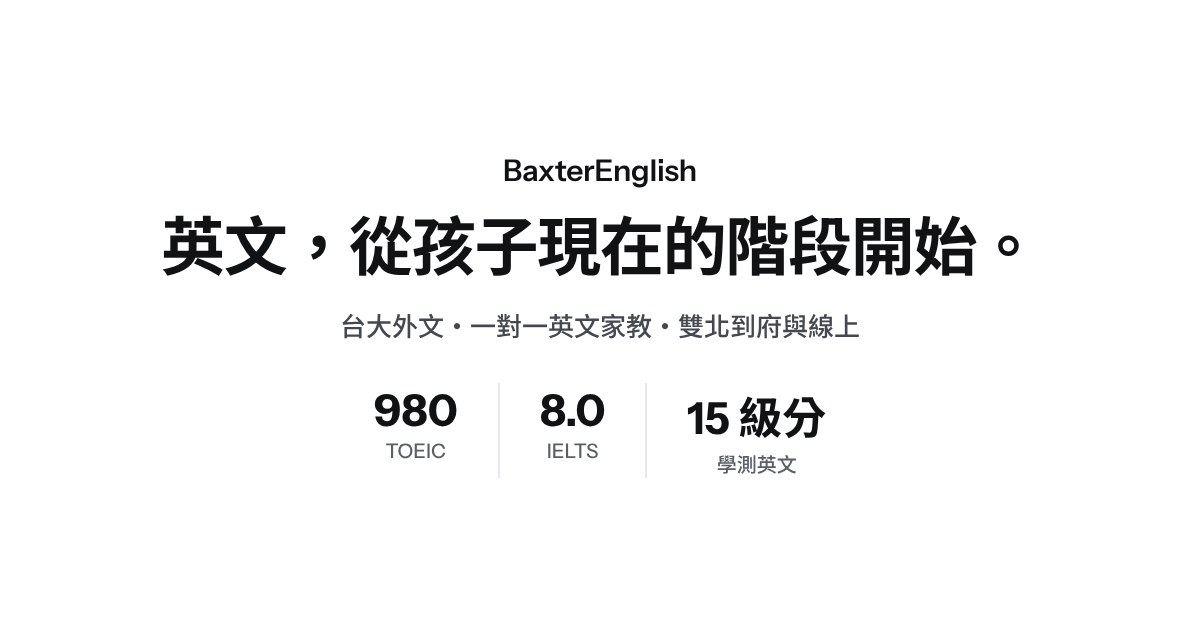
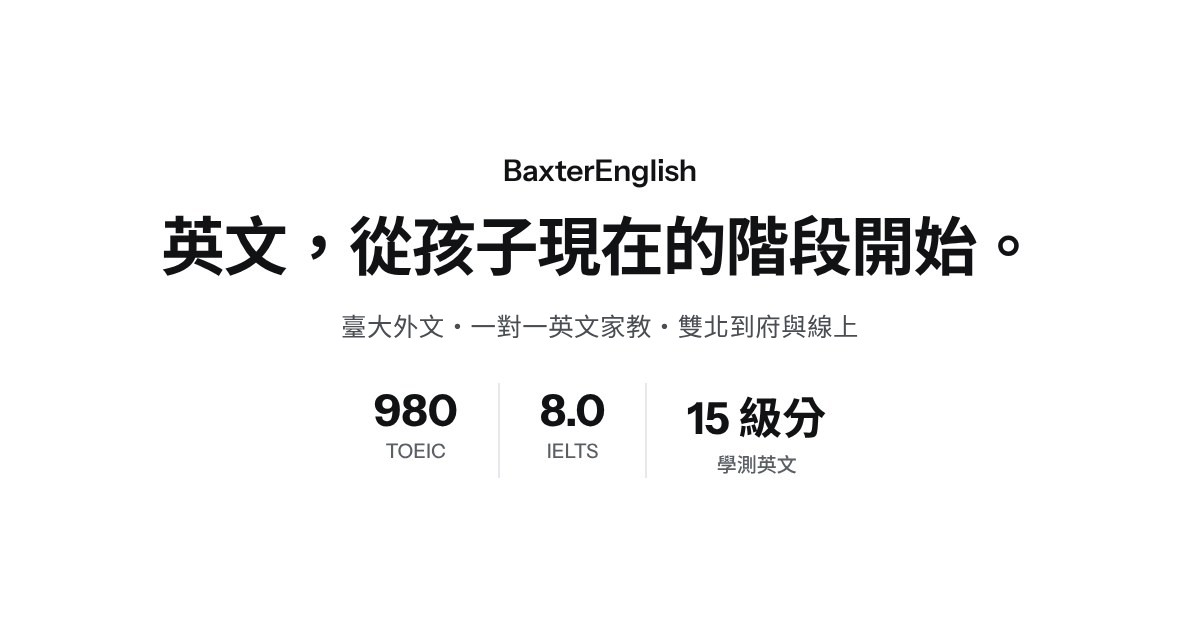
Add files via upload

Changed region(s): [[0.4625, 0.4825, 0.7092, 0.5429], [0.2775, 0.4825, 0.37, 0.5429], [0.4008, 0.4825, 0.4317, 0.5429]]

diff --git a/portfolio/index.html b/portfolio/index.html
@@ -26,7 +26,7 @@
 <link rel="preconnect" href="https://fonts.googleapis.com">
 <link rel="preconnect" href="https://fonts.gstatic.com" crossorigin>
 <link href="https://fonts.googleapis.com/css2?family=Instrument+Sans:wght@400;500;600;700&amp;family=Noto+Sans+TC:wght@400;500;600;700&amp;display=swap" rel="stylesheet">
-<link rel="stylesheet" href="/assets/site.css?v=20261009g">
+<link rel="stylesheet" href="/assets/site.css?v=20261009h">
 </head>
 <body>
 <a class="skip" href="#main">跳到主要內容</a>
@@ -67,7 +67,7 @@
 <section class="hero">
   <div class="wrap">
     <h1 class="display" style="font-size:clamp(40px,6vw,72px)">英文教材設計與命題作品集</h1>
-    <p class="lead">紀承緯（Baxter Chi），臺大外國語文學系。整理我自編的題本、講義、課程規劃，以及實際傳給家長的訊息；皆為節錄，姓名等可辨識資訊已遮去。</p>
+    <p class="lead">紀承緯（Baxter Chi），臺大外文。整理我自編的題本、講義、課程規劃，以及實際傳給家長的訊息；皆為節錄，姓名等可辨識資訊已遮去。</p>
   </div>
   <div class="wrap" style="margin-top:40px">
     <div class="stats">
@@ -98,7 +98,7 @@
 <section class="sec gray" id="comm" aria-labelledby="c-h">
   <div class="wrap">
     <div class="sec-head center"><h2 id="c-h" class="h2">家長與學生溝通</h2><p>實際傳出的 LINE 訊息，只留我送出的部分；姓名以符號代替，其他可辨識資訊已移除。</p></div>
-    <div class="shots" style="--c:3"><figure class="shot pf"><a class="zoom" href="/portfolio/img/msg-plan-calendar.webp"><img src="/portfolio/img/msg-plan-calendar.webp" width="820" height="872" alt="課程規劃：開學先對行事曆，再對學校進度（LINE 訊息截圖，已遮去個人資料）" loading="lazy" decoding="async"></a><figcaption><small>課程規劃</small><b>開學先對行事曆，再對學校進度</b><span>開學初就把學校行事曆上的期中、期末與直升考日期記下來，再向家長要學校每週的 lesson plan，收到後依單元進度逐週修改規劃。</span></figcaption></figure><figure class="shot pf"><a class="zoom" href="/portfolio/img/msg-error-diagnosis.webp"><img src="/portfolio/img/msg-error-diagnosis.webp" width="735" height="914" alt="錯題診斷：訂正完，把錯誤分成四種原因（LINE 訊息截圖，已遮去個人資料）" loading="lazy" decoding="async"></a><figcaption><small>錯題診斷</small><b>訂正完，把錯誤分成四種原因</b><span>題目要的和學生寫的不同、忘了前面單元的可數與不可數、沒看到題目要求否定句、單複數混用；最後說明檢討時怎麼處理：記得原因的當場問清楚、重新解釋再舉例，不記得的就再講一次正確思路。</span></figcaption></figure><figure class="shot pf"><a class="zoom" href="/portfolio/img/msg-followup-answer.webp"><img src="/portfolio/img/msg-followup-answer.webp" width="730" height="605" alt="事後補答：上課沒解決的題目，當晚補上（LINE 訊息截圖，已遮去個人資料）" loading="lazy" decoding="async"></a><figcaption><small>事後補答</small><b>上課沒解決的題目，當晚補上</b><span>課堂上卡住的一題，想清楚後當天就補上解法，請家長轉知學生。</span></figcaption></figure><figure class="shot pf"><a class="zoom" href="/portfolio/img/msg-ielts-goals.webp"><img src="/portfolio/img/msg-ielts-goals.webp" width="730" height="536" alt="目標拆解：雅思：先拆出各科目標分數（LINE 訊息截圖，已遮去個人資料）" loading="lazy" decoding="async"></a><figcaption><small>目標拆解</small><b>雅思：先拆出各科目標分數</b><span>先說明紙筆考轉機考的影響，再把總分目標拆成聽讀、說寫兩組，寫出練習重點。</span></figcaption></figure><figure class="shot pf"><a class="zoom" href="/portfolio/img/msg-exam-checklist.webp"><img src="/portfolio/img/msg-exam-checklist.webp" width="720" height="359" alt="考前提醒：段考前一週：只列三件事（LINE 訊息截圖，已遮去個人資料）" loading="lazy" decoding="async"></a><figcaption><small>考前提醒</small><b>段考前一週：只列三件事</b><span>直接傳給學生的考前清單：錯題重看、模擬卷做完、上課沒答出來的單字複習。</span></figcaption></figure><figure class="shot pf"><a class="zoom" href="/portfolio/img/msg-errand-flyers.webp"><img src="/portfolio/img/msg-errand-flyers.webp" width="820" height="384" alt="代辦：劍橋 Flyers 報名場次與截止日（LINE 訊息截圖，已遮去個人資料）" loading="lazy" decoding="async"></a><figcaption><small>代辦・檢定報名</small><b>劍橋 Flyers：查好場次與截止日，再給建議</b><span>把台北還能報名的場次、截止日逐一對照各考試中心官網，整理成一份報名資訊（考場、報名方式、要準備的資料），再建議落在學期中的場次。下圖是附件的第一頁。</span></figcaption></figure><figure class="shot pf"><a class="zoom" href="/portfolio/img/msg-course-plan.webp"><img src="/portfolio/img/msg-course-plan.webp" width="730" height="880" alt="課程規劃信：升高一暑假：高中英文怎麼排（LINE 訊息截圖，已遮去個人資料）" loading="lazy" decoding="async"></a><figcaption><small>課程規劃信</small><b>升高一暑假：高中英文怎麼排</b><span>把文法、單字、段考、作文、多益拆成有時間點的計畫，讓家長一次看懂接下來要做什麼。</span></figcaption></figure><figure class="shot pf"><a class="zoom" href="/portfolio/img/msg-lesson-feedback.webp"><img src="/portfolio/img/msg-lesson-feedback.webp" width="735" height="427" alt="課後回饋：回報進度，也回報上課狀況（LINE 訊息截圖，已遮去個人資料）" loading="lazy" decoding="async"></a><figcaption><small>課後回饋</small><b>回報進度，也回報上課狀況</b><span>家長問起學習狀況時，除了進度，也說明觀察到的問題和接下來的調整方式。</span></figcaption></figure><figure class="shot pf"><a class="zoom" href="/portfolio/img/msg-writing-course.webp"><img src="/portfolio/img/msg-writing-course.webp" width="880" height="336" alt="課程設計：英文作文從概念、段落到主題練習（LINE 訊息截圖，已遮去個人資料）" loading="lazy" decoding="async"></a><figcaption><small>課程設計</small><b>英文作文：從概念、段落到主題練習</b><span>向家長說明作文課怎麼排：先用約 1.5 小時講完概念、架構與例子，再做段落練習，最後到不同主題的討論與練習；上手大約 7–10 小時。</span></figcaption></figure><figure class="shot pf"><a class="zoom" href="/portfolio/img/doc-overseas-plan.webp"><img src="/portfolio/img/doc-overseas-plan.webp" width="1000" height="1333" alt="升學規劃：國中赴日本或新加坡讀國際學校的家長版指南（第 1 頁）" loading="lazy" decoding="async"></a><figcaption><small>升學規劃</small><b>國中出國讀書：日本或新加坡</b><span>家長在考慮孩子國中要去日本還是新加坡讀國際學校，我把各校官網資料整理成一份 10 頁的家長版指南：先依家長是否陪讀分成兩條路，再比較學校、寄宿年齡規定與費用。這是第一頁。</span></figcaption></figure></div>
+    <div class="shots" style="--c:3"><figure class="shot pf"><a class="zoom" href="/portfolio/img/msg-plan-calendar.webp"><img src="/portfolio/img/msg-plan-calendar.webp" width="820" height="872" alt="課程規劃：開學先對行事曆，再對學校進度（LINE 訊息截圖，已遮去個人資料）" loading="lazy" decoding="async"></a><figcaption><small>課程規劃</small><b>開學先對行事曆，再對學校進度</b><span>開學初就把學校行事曆上的期中、期末與直升考日期記下來，再向家長要學校每週的 lesson plan，收到後依單元進度逐週修改規劃。</span></figcaption></figure><figure class="shot pf"><a class="zoom" href="/portfolio/img/msg-error-diagnosis.webp"><img src="/portfolio/img/msg-error-diagnosis.webp" width="735" height="914" alt="錯題診斷：訂正完，把錯誤分成四種原因（LINE 訊息截圖，已遮去個人資料）" loading="lazy" decoding="async"></a><figcaption><small>錯題診斷</small><b>訂正完，把錯誤分成四種原因</b><span>題目要的和學生寫的不同、忘了前面單元的可數與不可數、沒看到題目要求否定句、單複數混用；最後說明檢討時怎麼處理：記得原因的當場問清楚、重新解釋再舉例，不記得的就再講一次正確思路。</span></figcaption></figure><figure class="shot pf"><a class="zoom" href="/portfolio/img/msg-followup-answer.webp"><img src="/portfolio/img/msg-followup-answer.webp" width="730" height="605" alt="事後補答：上課沒解決的題目，當晚補上（LINE 訊息截圖，已遮去個人資料）" loading="lazy" decoding="async"></a><figcaption><small>事後補答</small><b>上課沒解決的題目，當晚補上</b><span>課堂上卡住的一題，想清楚後當天就補上解法，請家長轉知學生。</span></figcaption></figure><figure class="shot pf"><a class="zoom" href="/portfolio/img/msg-ielts-goals.webp"><img src="/portfolio/img/msg-ielts-goals.webp" width="730" height="536" alt="目標拆解：雅思：先拆出各科目標分數（LINE 訊息截圖，已遮去個人資料）" loading="lazy" decoding="async"></a><figcaption><small>目標拆解</small><b>雅思：先拆出各科目標分數</b><span>先說明紙筆考轉機考的影響，再把總分目標拆成聽讀、說寫兩組，寫出練習重點。</span></figcaption></figure><figure class="shot pf"><a class="zoom" href="/portfolio/img/msg-exam-checklist.webp"><img src="/portfolio/img/msg-exam-checklist.webp" width="720" height="359" alt="考前提醒：段考前一週：只列三件事（LINE 訊息截圖，已遮去個人資料）" loading="lazy" decoding="async"></a><figcaption><small>考前提醒</small><b>段考前一週：只列三件事</b><span>直接傳給學生的考前清單：錯題重看、模擬卷做完、上課沒答出來的單字複習。</span></figcaption></figure><figure class="shot pf"><a class="zoom" href="/portfolio/img/msg-errand-flyers.webp"><img src="/portfolio/img/msg-errand-flyers.webp" width="820" height="384" alt="代辦：劍橋 Flyers 報名場次與截止日（LINE 訊息截圖，已遮去個人資料）" loading="lazy" decoding="async"></a><figcaption><small>代辦・檢定報名</small><b>劍橋 Flyers：查好場次與截止日，再給建議</b><span>把臺北還能報名的場次、截止日逐一對照各考試中心官網，整理成一份報名資訊（考場、報名方式、要準備的資料），再建議落在學期中的場次。下圖是附件的第一頁。</span></figcaption></figure><figure class="shot pf"><a class="zoom" href="/portfolio/img/msg-course-plan.webp"><img src="/portfolio/img/msg-course-plan.webp" width="730" height="880" alt="課程規劃信：升高一暑假：高中英文怎麼排（LINE 訊息截圖，已遮去個人資料）" loading="lazy" decoding="async"></a><figcaption><small>課程規劃信</small><b>升高一暑假：高中英文怎麼排</b><span>把文法、單字、段考、作文、多益拆成有時間點的計畫，讓家長一次看懂接下來要做什麼。</span></figcaption></figure><figure class="shot pf"><a class="zoom" href="/portfolio/img/msg-lesson-feedback.webp"><img src="/portfolio/img/msg-lesson-feedback.webp" width="735" height="427" alt="課後回饋：回報進度，也回報上課狀況（LINE 訊息截圖，已遮去個人資料）" loading="lazy" decoding="async"></a><figcaption><small>課後回饋</small><b>回報進度，也回報上課狀況</b><span>家長問起學習狀況時，除了進度，也說明觀察到的問題和接下來的調整方式。</span></figcaption></figure><figure class="shot pf"><a class="zoom" href="/portfolio/img/msg-writing-course.webp"><img src="/portfolio/img/msg-writing-course.webp" width="880" height="336" alt="課程設計：英文作文從概念、段落到主題練習（LINE 訊息截圖，已遮去個人資料）" loading="lazy" decoding="async"></a><figcaption><small>課程設計</small><b>英文作文：從概念、段落到主題練習</b><span>向家長說明作文課怎麼排：先用約 1.5 小時講完概念、架構與例子，再做段落練習，最後到不同主題的討論與練習；上手大約 7–10 小時。</span></figcaption></figure><figure class="shot pf"><a class="zoom" href="/portfolio/img/doc-overseas-plan.webp"><img src="/portfolio/img/doc-overseas-plan.webp" width="1000" height="1333" alt="升學規劃：國中赴日本或新加坡讀國際學校的家長版指南（第 1 頁）" loading="lazy" decoding="async"></a><figcaption><small>升學規劃</small><b>國中出國讀書：日本或新加坡</b><span>家長在考慮孩子國中要去日本還是新加坡讀國際學校，我把各校官網資料整理成一份 10 頁的家長版指南：先依家長是否陪讀分成兩條路，再比較學校、寄宿年齡規定與費用。這是第一頁。</span></figcaption></figure></div>
   </div>
 </section>
 <p class="fine" style="margin:32px auto 40px">頁面上的教材圖片僅供展示，請勿轉載。</p>
@@ -128,12 +128,12 @@
       <div><h2>Language</h2><ul><li><a href="/en/" lang="en">English</a></li></ul></div>
     </div>
     <div class="foot-bottom">
-      <span>© 2026 BaxterEnglish｜紀承緯｜國立臺灣大學外國語文學系</span>
+      <span>© 2026 BaxterEnglish｜紀承緯｜臺大外文</span>
       <span><a href="mailto:baxterenglish.ai@gmail.com" style="color:inherit">baxterenglish.ai@gmail.com</a></span>
     </div>
   </div>
 </footer>
-<script src="/assets/site.js?v=20261009g" defer></script>
+<script src="/assets/site.js?v=20261009h" defer></script>
 <script type='module' src='https://static.cloudflareinsights.com/beacon.min.js' data-cf-beacon='{"token": "dba28c8ccc004cefb7e60543c79aeb7e"}'></script>
 </body>
 </html>

diff --git a/index.html b/index.html
@@ -4,15 +4,15 @@
 <meta charset="UTF-8">
 <meta name="viewport" content="width=device-width, initial-scale=1">
 <meta name="google-site-verification" content="yLBQYT0IB_7HvR2aHNWpStvT8sGwhiIfxBBszcKCtf8">
-<title>BaxterEnglish 英文家教｜台大外文 紀承緯｜雙北到府・線上</title>
-<meta name="description" content="台大外文紀承緯的英文家教，TOEIC 980、IELTS 8.0。幼兒園自然發音、國小課業與劍橋英檢、會考、學測、雅思托福與海外升學，雙北到府或線上，提供 1 小時試教。">
+<title>BaxterEnglish 英文家教｜臺大外文 紀承緯｜雙北到府・線上</title>
+<meta name="description" content="臺大外文紀承緯的英文家教，TOEIC 980、IELTS 8.0。幼兒園自然發音、國小課業與劍橋英檢、會考、學測、雅思托福與海外升學，雙北到府或線上，提供 1 小時試教。">
 <link rel="canonical" href="https://baxterenglish.com/">
 <meta property="og:type" content="website">
 <meta property="og:locale" content="zh_TW">
 <meta property="og:site_name" content="BaxterEnglish">
 <meta property="og:url" content="https://baxterenglish.com/">
-<meta property="og:title" content="BaxterEnglish 英文家教｜台大外文 紀承緯｜雙北到府・線上">
-<meta property="og:description" content="台大外文紀承緯的英文家教，TOEIC 980、IELTS 8.0。幼兒園自然發音、國小課業與劍橋英檢、會考、學測、雅思托福與海外升學，雙北到府或線上，提供 1 小時試教。">
+<meta property="og:title" content="BaxterEnglish 英文家教｜臺大外文 紀承緯｜雙北到府・線上">
+<meta property="og:description" content="臺大外文紀承緯的英文家教，TOEIC 980、IELTS 8.0。幼兒園自然發音、國小課業與劍橋英檢、會考、學測、雅思托福與海外升學，雙北到府或線上，提供 1 小時試教。">
 <meta property="og:image" content="https://baxterenglish.com/og-baxterenglish.jpg">
 <meta property="og:image:width" content="1200">
 <meta property="og:image:height" content="630">
@@ -23,7 +23,7 @@
 <link rel="preconnect" href="https://fonts.googleapis.com">
 <link rel="preconnect" href="https://fonts.gstatic.com" crossorigin>
 <link href="https://fonts.googleapis.com/css2?family=Instrument+Sans:wght@400;500;600;700&amp;family=Noto+Sans+TC:wght@400;500;600;700&amp;display=swap" rel="stylesheet">
-<link rel="stylesheet" href="/assets/site.css?v=20261009g">
+<link rel="stylesheet" href="/assets/site.css?v=20261009h">
 <script type="application/ld+json">
 {
  "@context": "https://schema.org",
@@ -75,7 +75,7 @@
    "image": "https://baxterenglish.com/img/baxter-chi.jpg",
    "affiliation": {
     "@type": "CollegeOrUniversity",
-    "name": "國立臺灣大學 外國語文學系"
+    "name": "國立臺灣大學外國語文學系"
    },
    "knowsLanguage": [
     "zh-Hant",
@@ -131,7 +131,7 @@
 <main id="main">
 <section class="hero home">
   <div class="wrap">
-    <p class="kicker">台大外文・一對一英文家教・雙北到府與線上</p>
+    <p class="kicker">臺大外文・一對一英文家教・雙北到府與線上</p>
     <h1 class="display-home">英文，從孩子現在的階段開始。</h1>
     <p class="lead">從幼兒園的自然發音到雅思托福，依年級和目標量身規劃。</p>
     <div class="links"><a class="more" href="https://line.me/R/ti/p/@baxter_english">LINE 詢問試教</a><a class="more" href="#ask">30 秒填表</a></div>
@@ -144,7 +144,7 @@
   <div class="wrap">
     <a class="teacher" href="/about/">
       <img src="/img/baxter-chi.webp" width="600" height="400" alt="紀承緯老師">
-      <span class="t-main"><span id="teacher-h" class="t-name">紀承緯老師</span><span class="t-sub">台大外文・教過 21 所學校的學生</span></span>
+      <span class="t-main"><span id="teacher-h" class="t-name">紀承緯老師</span><span class="t-sub">臺大外文・教過 21 所學校的學生</span></span>
       <span class="t-stats">
         <span><b>980</b>多益</span>
         <span><b>8.0</b>雅思（聽、讀 9.0）</span>
@@ -227,12 +227,12 @@
       <div><h2>Language</h2><ul><li><a href="/en/" lang="en">English</a></li></ul></div>
     </div>
     <div class="foot-bottom">
-      <span>© 2026 BaxterEnglish｜紀承緯｜國立臺灣大學外國語文學系</span>
+      <span>© 2026 BaxterEnglish｜紀承緯｜臺大外文</span>
       <span><a href="mailto:baxterenglish.ai@gmail.com" style="color:inherit">baxterenglish.ai@gmail.com</a></span>
     </div>
   </div>
 </footer>
-<script src="/assets/site.js?v=20261009g" defer></script>
+<script src="/assets/site.js?v=20261009h" defer></script>
 <script type='module' src='https://static.cloudflareinsights.com/beacon.min.js' data-cf-beacon='{"token": "dba28c8ccc004cefb7e60543c79aeb7e"}'></script>
 </body>
 </html>

diff --git a/about/index.html b/about/index.html
@@ -4,15 +4,15 @@
 <meta charset="UTF-8">
 <meta name="viewport" content="width=device-width, initial-scale=1">
 <meta name="google-site-verification" content="yLBQYT0IB_7HvR2aHNWpStvT8sGwhiIfxBBszcKCtf8">
-<title>關於老師 紀承緯｜台大外文・TOEIC 980・IELTS 8.0｜BaxterEnglish</title>
-<meta name="description" content="紀承緯，國立臺灣大學外國語文學系。以全英文授課為主，曾／現指導 21 所學校的學生，從私立雙語小學、國高中到成人。">
+<title>關於老師 紀承緯｜臺大外文・TOEIC 980・IELTS 8.0｜BaxterEnglish</title>
+<meta name="description" content="紀承緯，臺大外文。以全英文授課為主，曾／現指導 21 所學校的學生，從私立雙語小學、國高中到成人。">
 <link rel="canonical" href="https://baxterenglish.com/about/">
 <meta property="og:type" content="website">
 <meta property="og:locale" content="zh_TW">
 <meta property="og:site_name" content="BaxterEnglish">
 <meta property="og:url" content="https://baxterenglish.com/about/">
-<meta property="og:title" content="關於老師 紀承緯｜台大外文・TOEIC 980・IELTS 8.0｜BaxterEnglish">
-<meta property="og:description" content="紀承緯，國立臺灣大學外國語文學系。以全英文授課為主，曾／現指導 21 所學校的學生，從私立雙語小學、國高中到成人。">
+<meta property="og:title" content="關於老師 紀承緯｜臺大外文・TOEIC 980・IELTS 8.0｜BaxterEnglish">
+<meta property="og:description" content="紀承緯，臺大外文。以全英文授課為主，曾／現指導 21 所學校的學生，從私立雙語小學、國高中到成人。">
 <meta property="og:image" content="https://baxterenglish.com/og-baxterenglish.jpg">
 <meta property="og:image:width" content="1200">
 <meta property="og:image:height" content="630">
@@ -23,7 +23,7 @@
 <link rel="preconnect" href="https://fonts.googleapis.com">
 <link rel="preconnect" href="https://fonts.gstatic.com" crossorigin>
 <link href="https://fonts.googleapis.com/css2?family=Instrument+Sans:wght@400;500;600;700&amp;family=Noto+Sans+TC:wght@400;500;600;700&amp;display=swap" rel="stylesheet">
-<link rel="stylesheet" href="/assets/site.css?v=20261009g">
+<link rel="stylesheet" href="/assets/site.css?v=20261009h">
 <script type="application/ld+json">
 {
  "@context": "https://schema.org",
@@ -42,7 +42,7 @@
    "image": "https://baxterenglish.com/img/baxter-chi.jpg",
    "affiliation": {
     "@type": "CollegeOrUniversity",
-    "name": "國立臺灣大學 外國語文學系"
+    "name": "國立臺灣大學外國語文學系"
    },
    "knowsLanguage": [
     "zh-Hant",
@@ -116,7 +116,7 @@
       <div class="t">
         <p class="kicker">BaxterEnglish</p>
         <h1 class="display" style="font-size:clamp(44px,6vw,72px)">紀承緯</h1>
-        <p class="subhead" style="font-size:clamp(18px,2vw,24px)">Chi, Cheng-Wei（Baxter）｜國立臺灣大學外國語文學系</p>
+        <p class="subhead" style="font-size:clamp(18px,2vw,24px)">Chi, Cheng-Wei（Baxter）｜臺大外文</p>
         <p class="lead" style="max-width:560px">以全英文授課為主，學生從私立雙語小學、國高中到大學、成人。在提升成績的同時，也希望學生真正喜歡上英文。</p>
         <p class="muted" style="font-size:15px">一對一、兩人同上（高中小班籌備中）｜長期、短期｜雙北到府、咖啡廳、線上</p>
         <p class="social"><a href="https://www.facebook.com/BaxterChiEnglish">Facebook</a><a href="https://www.instagram.com/baxter_english_/">Instagram</a><a href="https://www.youtube.com/channel/UCELFojFhKIKP2xqq7kwU9Jw">YouTube</a></p>
@@ -204,12 +204,12 @@
       <div><h2>Language</h2><ul><li><a href="/en/" lang="en">English</a></li></ul></div>
     </div>
     <div class="foot-bottom">
-      <span>© 2026 BaxterEnglish｜紀承緯｜國立臺灣大學外國語文學系</span>
+      <span>© 2026 BaxterEnglish｜紀承緯｜臺大外文</span>
       <span><a href="mailto:baxterenglish.ai@gmail.com" style="color:inherit">baxterenglish.ai@gmail.com</a></span>
     </div>
   </div>
 </footer>
-<script src="/assets/site.js?v=20261009g" defer></script>
+<script src="/assets/site.js?v=20261009h" defer></script>
 <script type='module' src='https://static.cloudflareinsights.com/beacon.min.js' data-cf-beacon='{"token": "dba28c8ccc004cefb7e60543c79aeb7e"}'></script>
 </body>
 </html>

diff --git a/elementary/index.html b/elementary/index.html
@@ -23,7 +23,7 @@
 <link rel="preconnect" href="https://fonts.googleapis.com">
 <link rel="preconnect" href="https://fonts.gstatic.com" crossorigin>
 <link href="https://fonts.googleapis.com/css2?family=Instrument+Sans:wght@400;500;600;700&amp;family=Noto+Sans+TC:wght@400;500;600;700&amp;display=swap" rel="stylesheet">
-<link rel="stylesheet" href="/assets/site.css?v=20261009g">
+<link rel="stylesheet" href="/assets/site.css?v=20261009h">
 <script type="application/ld+json">
 {
  "@context": "https://schema.org",
@@ -208,12 +208,12 @@
       <div><h2>Language</h2><ul><li><a href="/en/" lang="en">English</a></li></ul></div>
     </div>
     <div class="foot-bottom">
-      <span>© 2026 BaxterEnglish｜紀承緯｜國立臺灣大學外國語文學系</span>
+      <span>© 2026 BaxterEnglish｜紀承緯｜臺大外文</span>
       <span><a href="mailto:baxterenglish.ai@gmail.com" style="color:inherit">baxterenglish.ai@gmail.com</a></span>
     </div>
   </div>
 </footer>
-<script src="/assets/site.js?v=20261009g" defer></script>
+<script src="/assets/site.js?v=20261009h" defer></script>
 <script type='module' src='https://static.cloudflareinsights.com/beacon.min.js' data-cf-beacon='{"token": "dba28c8ccc004cefb7e60543c79aeb7e"}'></script>
 </body>
 </html>

diff --git a/exams-adults/index.html b/exams-adults/index.html
@@ -23,7 +23,7 @@
 <link rel="preconnect" href="https://fonts.googleapis.com">
 <link rel="preconnect" href="https://fonts.gstatic.com" crossorigin>
 <link href="https://fonts.googleapis.com/css2?family=Instrument+Sans:wght@400;500;600;700&amp;family=Noto+Sans+TC:wght@400;500;600;700&amp;display=swap" rel="stylesheet">
-<link rel="stylesheet" href="/assets/site.css?v=20261009g">
+<link rel="stylesheet" href="/assets/site.css?v=20261009h">
 <script type="application/ld+json">
 {
  "@context": "https://schema.org",
@@ -201,12 +201,12 @@
       <div><h2>Language</h2><ul><li><a href="/en/" lang="en">English</a></li></ul></div>
     </div>
     <div class="foot-bottom">
-      <span>© 2026 BaxterEnglish｜紀承緯｜國立臺灣大學外國語文學系</span>
+      <span>© 2026 BaxterEnglish｜紀承緯｜臺大外文</span>
       <span><a href="mailto:baxterenglish.ai@gmail.com" style="color:inherit">baxterenglish.ai@gmail.com</a></span>
     </div>
   </div>
 </footer>
-<script src="/assets/site.js?v=20261009g" defer></script>
+<script src="/assets/site.js?v=20261009h" defer></script>
 <script type='module' src='https://static.cloudflareinsights.com/beacon.min.js' data-cf-beacon='{"token": "dba28c8ccc004cefb7e60543c79aeb7e"}'></script>
 </body>
 </html>

diff --git a/info/index.html b/info/index.html
@@ -23,7 +23,7 @@
 <link rel="preconnect" href="https://fonts.googleapis.com">
 <link rel="preconnect" href="https://fonts.gstatic.com" crossorigin>
 <link href="https://fonts.googleapis.com/css2?family=Instrument+Sans:wght@400;500;600;700&amp;family=Noto+Sans+TC:wght@400;500;600;700&amp;display=swap" rel="stylesheet">
-<link rel="stylesheet" href="/assets/site.css?v=20261009g">
+<link rel="stylesheet" href="/assets/site.css?v=20261009h">
 <script type="application/ld+json">
 {
  "@context": "https://schema.org",
@@ -284,12 +284,12 @@
       <div><h2>Language</h2><ul><li><a href="/en/" lang="en">English</a></li></ul></div>
     </div>
     <div class="foot-bottom">
-      <span>© 2026 BaxterEnglish｜紀承緯｜國立臺灣大學外國語文學系</span>
+      <span>© 2026 BaxterEnglish｜紀承緯｜臺大外文</span>
       <span><a href="mailto:baxterenglish.ai@gmail.com" style="color:inherit">baxterenglish.ai@gmail.com</a></span>
     </div>
   </div>
 </footer>
-<script src="/assets/site.js?v=20261009g" defer></script>
+<script src="/assets/site.js?v=20261009h" defer></script>
 <script type='module' src='https://static.cloudflareinsights.com/beacon.min.js' data-cf-beacon='{"token": "dba28c8ccc004cefb7e60543c79aeb7e"}'></script>
 </body>
 </html>

diff --git a/junior-high/index.html b/junior-high/index.html
@@ -23,7 +23,7 @@
 <link rel="preconnect" href="https://fonts.googleapis.com">
 <link rel="preconnect" href="https://fonts.gstatic.com" crossorigin>
 <link href="https://fonts.googleapis.com/css2?family=Instrument+Sans:wght@400;500;600;700&amp;family=Noto+Sans+TC:wght@400;500;600;700&amp;display=swap" rel="stylesheet">
-<link rel="stylesheet" href="/assets/site.css?v=20261009g">
+<link rel="stylesheet" href="/assets/site.css?v=20261009h">
 <script type="application/ld+json">
 {
  "@context": "https://schema.org",
@@ -198,12 +198,12 @@
       <div><h2>Language</h2><ul><li><a href="/en/" lang="en">English</a></li></ul></div>
     </div>
     <div class="foot-bottom">
-      <span>© 2026 BaxterEnglish｜紀承緯｜國立臺灣大學外國語文學系</span>
+      <span>© 2026 BaxterEnglish｜紀承緯｜臺大外文</span>
       <span><a href="mailto:baxterenglish.ai@gmail.com" style="color:inherit">baxterenglish.ai@gmail.com</a></span>
     </div>
   </div>
 </footer>
-<script src="/assets/site.js?v=20261009g" defer></script>
+<script src="/assets/site.js?v=20261009h" defer></script>
 <script type='module' src='https://static.cloudflareinsights.com/beacon.min.js' data-cf-beacon='{"token": "dba28c8ccc004cefb7e60543c79aeb7e"}'></script>
 </body>
 </html>

diff --git a/senior-high/index.html b/senior-high/index.html
@@ -23,7 +23,7 @@
 <link rel="preconnect" href="https://fonts.googleapis.com">
 <link rel="preconnect" href="https://fonts.gstatic.com" crossorigin>
 <link href="https://fonts.googleapis.com/css2?family=Instrument+Sans:wght@400;500;600;700&amp;family=Noto+Sans+TC:wght@400;500;600;700&amp;display=swap" rel="stylesheet">
-<link rel="stylesheet" href="/assets/site.css?v=20261009g">
+<link rel="stylesheet" href="/assets/site.css?v=20261009h">
 <script type="application/ld+json">
 {
  "@context": "https://schema.org",
@@ -196,12 +196,12 @@
       <div><h2>Language</h2><ul><li><a href="/en/" lang="en">English</a></li></ul></div>
     </div>
     <div class="foot-bottom">
-      <span>© 2026 BaxterEnglish｜紀承緯｜國立臺灣大學外國語文學系</span>
+      <span>© 2026 BaxterEnglish｜紀承緯｜臺大外文</span>
       <span><a href="mailto:baxterenglish.ai@gmail.com" style="color:inherit">baxterenglish.ai@gmail.com</a></span>
     </div>
   </div>
 </footer>
-<script src="/assets/site.js?v=20261009g" defer></script>
+<script src="/assets/site.js?v=20261009h" defer></script>
 <script type='module' src='https://static.cloudflareinsights.com/beacon.min.js' data-cf-beacon='{"token": "dba28c8ccc004cefb7e60543c79aeb7e"}'></script>
 </body>
 </html>

diff --git a/speaking-writing/index.html b/speaking-writing/index.html
@@ -23,7 +23,7 @@
 <link rel="preconnect" href="https://fonts.googleapis.com">
 <link rel="preconnect" href="https://fonts.gstatic.com" crossorigin>
 <link href="https://fonts.googleapis.com/css2?family=Instrument+Sans:wght@400;500;600;700&amp;family=Noto+Sans+TC:wght@400;500;600;700&amp;display=swap" rel="stylesheet">
-<link rel="stylesheet" href="/assets/site.css?v=20261009g">
+<link rel="stylesheet" href="/assets/site.css?v=20261009h">
 <script type="application/ld+json">
 {
  "@context": "https://schema.org",
@@ -209,12 +209,12 @@
       <div><h2>Language</h2><ul><li><a href="/en/" lang="en">English</a></li></ul></div>
     </div>
     <div class="foot-bottom">
-      <span>© 2026 BaxterEnglish｜紀承緯｜國立臺灣大學外國語文學系</span>
+      <span>© 2026 BaxterEnglish｜紀承緯｜臺大外文</span>
       <span><a href="mailto:baxterenglish.ai@gmail.com" style="color:inherit">baxterenglish.ai@gmail.com</a></span>
     </div>
   </div>
 </footer>
-<script src="/assets/site.js?v=20261009g" defer></script>
+<script src="/assets/site.js?v=20261009h" defer></script>
 <script type='module' src='https://static.cloudflareinsights.com/beacon.min.js' data-cf-beacon='{"token": "dba28c8ccc004cefb7e60543c79aeb7e"}'></script>
 </body>
 </html>

diff --git a/ask/index.html b/ask/index.html
@@ -23,7 +23,7 @@
 <link rel="preconnect" href="https://fonts.googleapis.com">
 <link rel="preconnect" href="https://fonts.gstatic.com" crossorigin>
 <link href="https://fonts.googleapis.com/css2?family=Instrument+Sans:wght@400;500;600;700&amp;family=Noto+Sans+TC:wght@400;500;600;700&amp;display=swap" rel="stylesheet">
-<link rel="stylesheet" href="/assets/site.css?v=20261009g">
+<link rel="stylesheet" href="/assets/site.css?v=20261009h">
 </head>
 <body>
 <a class="skip" href="#main">跳到主要內容</a>
@@ -108,12 +108,12 @@
       <div><h2>Language</h2><ul><li><a href="/en/" lang="en">English</a></li></ul></div>
     </div>
     <div class="foot-bottom">
-      <span>© 2026 BaxterEnglish｜紀承緯｜國立臺灣大學外國語文學系</span>
+      <span>© 2026 BaxterEnglish｜紀承緯｜臺大外文</span>
       <span><a href="mailto:baxterenglish.ai@gmail.com" style="color:inherit">baxterenglish.ai@gmail.com</a></span>
     </div>
   </div>
 </footer>
-<script src="/assets/site.js?v=20261009g" defer></script>
+<script src="/assets/site.js?v=20261009h" defer></script>
 <script type='module' src='https://static.cloudflareinsights.com/beacon.min.js' data-cf-beacon='{"token": "dba28c8ccc004cefb7e60543c79aeb7e"}'></script>
 </body>
 </html>

diff --git a/portfolio/plans/index.html b/portfolio/plans/index.html
@@ -26,7 +26,7 @@
 <link rel="preconnect" href="https://fonts.googleapis.com">
 <link rel="preconnect" href="https://fonts.gstatic.com" crossorigin>
 <link href="https://fonts.googleapis.com/css2?family=Instrument+Sans:wght@400;500;600;700&amp;family=Noto+Sans+TC:wght@400;500;600;700&amp;display=swap" rel="stylesheet">
-<link rel="stylesheet" href="/assets/site.css?v=20261009g">
+<link rel="stylesheet" href="/assets/site.css?v=20261009h">
 </head>
 <body>
 <a class="skip" href="#main">跳到主要內容</a>
@@ -123,12 +123,12 @@
       <div><h2>Language</h2><ul><li><a href="/en/" lang="en">English</a></li></ul></div>
     </div>
     <div class="foot-bottom">
-      <span>© 2026 BaxterEnglish｜紀承緯｜國立臺灣大學外國語文學系</span>
+      <span>© 2026 BaxterEnglish｜紀承緯｜臺大外文</span>
       <span><a href="mailto:baxterenglish.ai@gmail.com" style="color:inherit">baxterenglish.ai@gmail.com</a></span>
     </div>
   </div>
 </footer>
-<script src="/assets/site.js?v=20261009g" defer></script>
+<script src="/assets/site.js?v=20261009h" defer></script>
 <script type='module' src='https://static.cloudflareinsights.com/beacon.min.js' data-cf-beacon='{"token": "dba28c8ccc004cefb7e60543c79aeb7e"}'></script>
 </body>
 </html>

diff --git a/schools/index.html b/schools/index.html
@@ -23,7 +23,7 @@
 <link rel="preconnect" href="https://fonts.googleapis.com">
 <link rel="preconnect" href="https://fonts.gstatic.com" crossorigin>
 <link href="https://fonts.googleapis.com/css2?family=Instrument+Sans:wght@400;500;600;700&amp;family=Noto+Sans+TC:wght@400;500;600;700&amp;display=swap" rel="stylesheet">
-<link rel="stylesheet" href="/assets/site.css?v=20261009g">
+<link rel="stylesheet" href="/assets/site.css?v=20261009h">
 </head>
 <body>
 <a class="skip" href="#main">跳到主要內容</a>
@@ -83,12 +83,12 @@
       <div><h2>Language</h2><ul><li><a href="/en/" lang="en">English</a></li></ul></div>
     </div>
     <div class="foot-bottom">
-      <span>© 2026 BaxterEnglish｜紀承緯｜國立臺灣大學外國語文學系</span>
+      <span>© 2026 BaxterEnglish｜紀承緯｜臺大外文</span>
       <span><a href="mailto:baxterenglish.ai@gmail.com" style="color:inherit">baxterenglish.ai@gmail.com</a></span>
     </div>
   </div>
 </footer>
-<script src="/assets/site.js?v=20261009g" defer></script>
+<script src="/assets/site.js?v=20261009h" defer></script>
 <script type='module' src='https://static.cloudflareinsights.com/beacon.min.js' data-cf-beacon='{"token": "dba28c8ccc004cefb7e60543c79aeb7e"}'></script>
 </body>
 </html>
